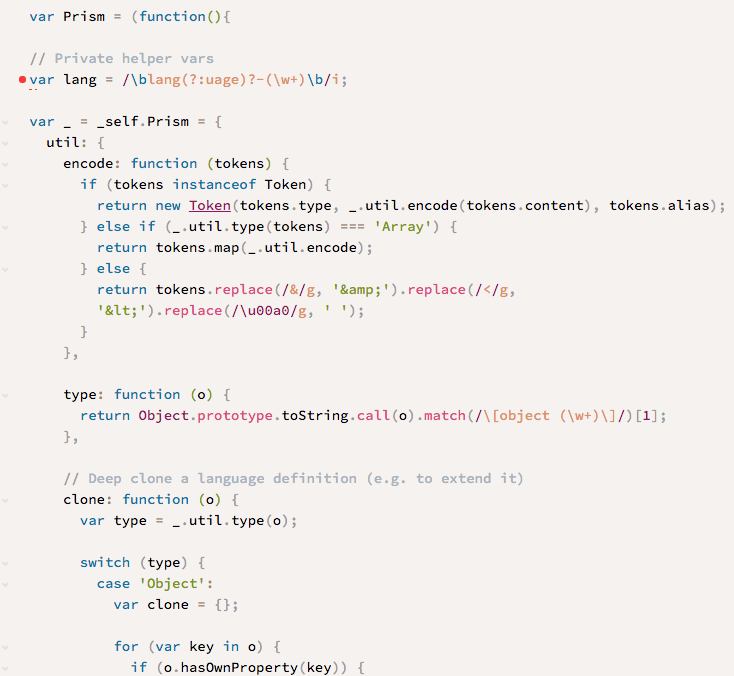
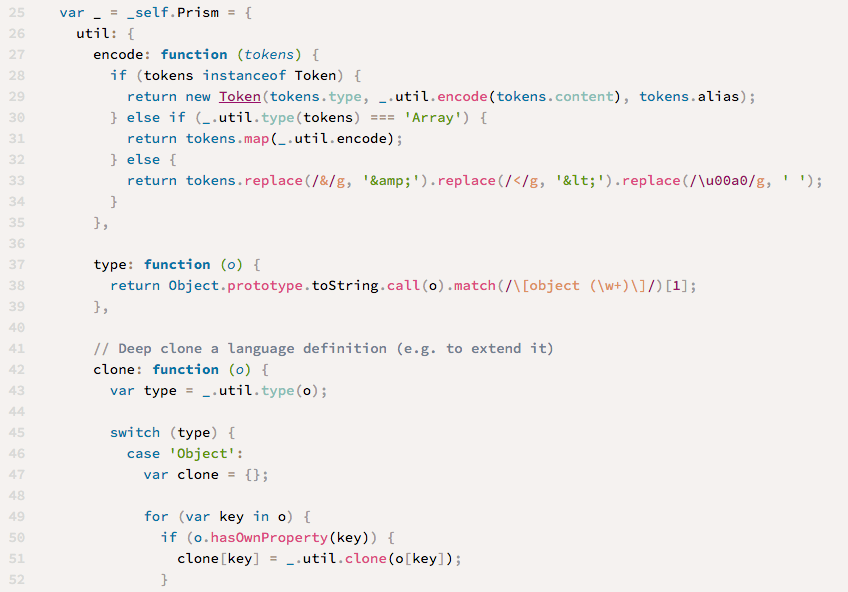
color tweaks to scss and js

diff --git a/styles/base.less b/styles/base.less
@@ -63,7 +63,7 @@ atom-text-editor .search-results .marker.current-result .region,
 }
 
 .comment, .punctuation.definition.comment {
-  color: lighten(#708090, 20%);
+  color: #708090;
 }
 
 .keyword {
@@ -142,7 +142,11 @@ atom-text-editor .search-results .marker.current-result .region,
   &.parameter.function {
     color: @syntax-text-color;
   }
+
 }
+
+
+
 
 .invalid.illegal {
   background-color: @red;
@@ -348,6 +352,32 @@ atom-text-editor .search-results .marker.current-result .region,
   }
 }
 
+
+// some direct js
+.variable.other.property.js, .meta.function.json.js .entity.name.function.js {
+  color: @syntax-text-color !important;
+}
+
+.entity.name.function.js {
+  color: @magenta;
+}
+.meta.method-call.js  .variable.other.property.js {
+  color: @magenta;
+}
+.support.constant.dom.js {
+  color: @cyan;
+}
+.variable.parameter.function.js {
+  color: @blue;
+  font-style: italic;
+}
+.storage.type.function.js {
+  color: @blue;
+  font-weight: bold;
+}
+
+
+
 //css
 .entity.other.attribute-name.class.css,
 .entity.other.attribute-name.id.css,
@@ -393,8 +423,8 @@ atom-text-editor .search-results .marker.current-result .region,
 
 .string.quoted.single.css, .string.quoted.double.css,
 .string.quoted.single.scss, .string.quoted.double.scss  {
-  color: @brown;
-  background-color: #faf8f7;
+  color: @green;
+  background-color: @syntax-background-color;
 }
 .support.constant.property-value.css,
 .support.constant.font-name.css,
@@ -472,6 +502,9 @@ atom-text-editor .search-results .marker.current-result .region,
 }
 .keyword.other.important.scss {
   color: @red;
+}
+.variable.scss {
+  color: @orange;
 }
 
 

diff --git a/styles/colors.less b/styles/colors.less
@@ -9,7 +9,7 @@
 @cyan: #8abeb7;
 @blue: #07a;
 @purple: #b294bb;
-@green: #7c9900;
+@green: #690;
 @red: #cc6666;
 @orange: #de935f;
 @light-orange: #f0c674;
